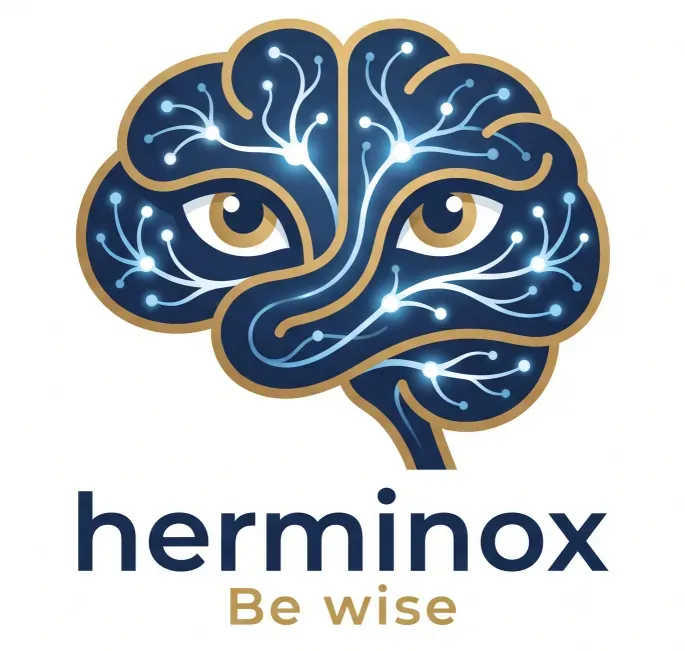
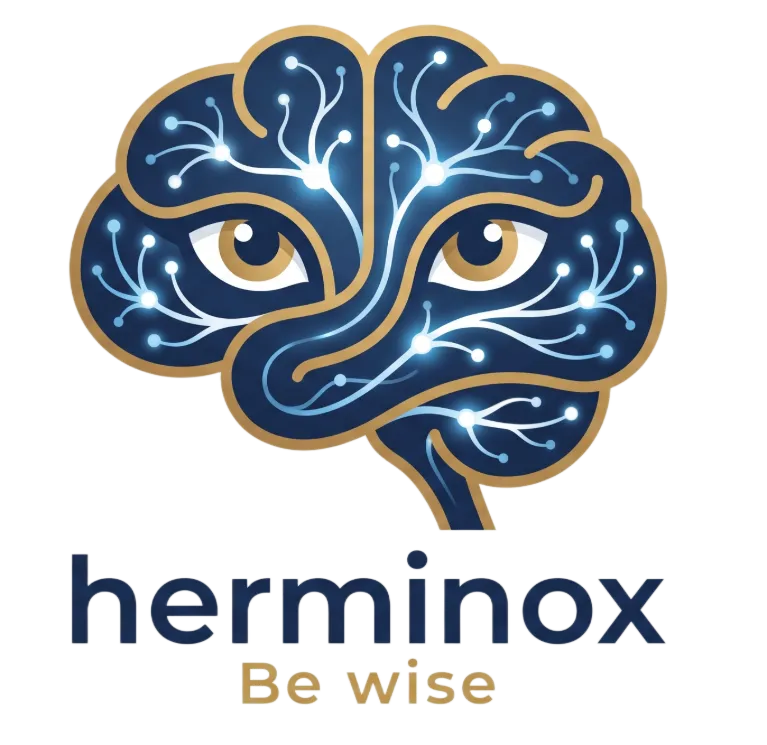
h3

diff --git a/index.html b/index.html
@@ -171,10 +171,10 @@ body::before{content:"";position:fixed;inset:0;z-index:-1;pointer-events:none;ba
 <!-- ================= MOBILE EMBLEM — Smart logo (≤640px) ================= -->
 <section class="mhero" aria-hidden="true">
   <div class="mhero-wrap">
-    <div class="mhero-logo" role="img" aria-label="Herminox — Smart tools">
+    <div class="mhero-logo" role="img" aria-label="Herminox — Be wise">
       <picture>
         <source srcset="/assets/herminox-mobile.webp" type="image/webp">
-        <img src="/assets/herminox-mobile.png" alt="" width="685" height="651" decoding="async" draggable="false">
+        <img src="/assets/herminox-mobile.png" alt="" width="767" height="745" decoding="async" draggable="false">
       </picture>
     </div>
     <p class="mhero-caption"><span>Smart</span><span>Tools</span><span>Numbers</span></p>